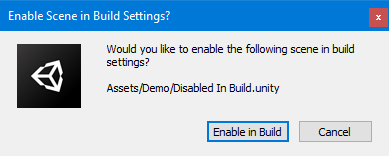
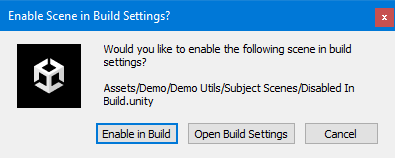
chore: publish prep for 2.1.0
* chore: copy readme, changelog, license, and assets to package directory

* Version change for UPM release (2.1.0)

diff --git a/Eflatun.SceneReference/Packages/com.eflatun.scenereference/CHANGELOG.md b/Eflatun.SceneReference/Packages/com.eflatun.scenereference/CHANGELOG.md
@@ -19,6 +19,19 @@ The format is based on [Keep a Changelog](https://keepachangelog.com/en/1.0.0/),
 
 
 
+## [2.1.0] - 2023-03-01
+
+### Added
+- `Open Build Settings` button to the scene-in-build utility popups. This button will ping the scene in the project view and open build settings, allowing you to fix your build settings manually.
+
+### Changed
+- `Add to Build as Enabled` button is renamed to `Add to Build` in scene-in-build utility popups of scenes that are not in build.
+
+### Removed
+- `Add to Build as Disabled` button in the scene-in-build utility popups of scenes that are not in build. This button was not making much sense because adding to build as disabled doesn't actually fix the situation, since the scene will still be disabled afterwards.
+
+
+
 ## [2.0.0] - 2023-02-26
 We renamed some of our internal serialized fields. Since we utilize `FormerlySerializedAs`, you will not lose any data. However, due to these changes, Unity will re-serialize your `SceneReference`s as you save your scenes and prefabs. Please commit these re-serialization changes as you see fit, otherwise they will keep appearing until you do so.
 

diff --git a/Eflatun.SceneReference/Packages/com.eflatun.scenereference/README.md b/Eflatun.SceneReference/Packages/com.eflatun.scenereference/README.md
@@ -46,13 +46,13 @@ openupm add com.eflatun.scenereference
 
 ### With Git URL
 
-Add the following line to the `dependencies` section of your project's `manifest.json` file. Replace `2.0.0` with the version you want to install.
+Add the following line to the `dependencies` section of your project's `manifest.json` file. Replace `2.1.0` with the version you want to install.
 
 ```json
-"com.eflatun.scenereference": "git+https://github.com/starikcetin/Eflatun.SceneReference.git#2.0.0"
+"com.eflatun.scenereference": "git+https://github.com/starikcetin/Eflatun.SceneReference.git#2.1.0"
 ```
 
-_Although it is highly discouraged, you can replace `2.0.0` with `upm` to get the latest version instead of a specific one._
+_Although it is highly discouraged, you can replace `2.1.0` with `upm` to get the latest version instead of a specific one._
 
 ## Ignore Auto-Generated Map File in Version Control
 

diff --git a/README.md b/README.md
@@ -46,13 +46,13 @@ openupm add com.eflatun.scenereference
 
 ### With Git URL
 
-Add the following line to the `dependencies` section of your project's `manifest.json` file. Replace `2.0.0` with the version you want to install.
+Add the following line to the `dependencies` section of your project's `manifest.json` file. Replace `2.1.0` with the version you want to install.
 
 ```json
-"com.eflatun.scenereference": "git+https://github.com/starikcetin/Eflatun.SceneReference.git#2.0.0"
+"com.eflatun.scenereference": "git+https://github.com/starikcetin/Eflatun.SceneReference.git#2.1.0"
 ```
 
-_Although it is highly discouraged, you can replace `2.0.0` with `upm` to get the latest version instead of a specific one._
+_Although it is highly discouraged, you can replace `2.1.0` with `upm` to get the latest version instead of a specific one._
 
 ## Ignore Auto-Generated Map File in Version Control
 

diff --git a/CHANGELOG.md b/CHANGELOG.md
@@ -10,6 +10,18 @@ The format is based on [Keep a Changelog](https://keepachangelog.com/en/1.0.0/),
 ### Breaking Changes
 
 ### Added
+
+### Changed
+
+### Removed
+
+### Fixed
+
+
+
+## [2.1.0] - 2023-03-01
+
+### Added
 - `Open Build Settings` button to the scene-in-build utility popups. This button will ping the scene in the project view and open build settings, allowing you to fix your build settings manually.
 
 ### Changed
@@ -17,8 +29,6 @@ The format is based on [Keep a Changelog](https://keepachangelog.com/en/1.0.0/),
 
 ### Removed
 - `Add to Build as Disabled` button in the scene-in-build utility popups of scenes that are not in build. This button was not making much sense because adding to build as disabled doesn't actually fix the situation, since the scene will still be disabled afterwards.
-
-### Fixed
 
 
 
